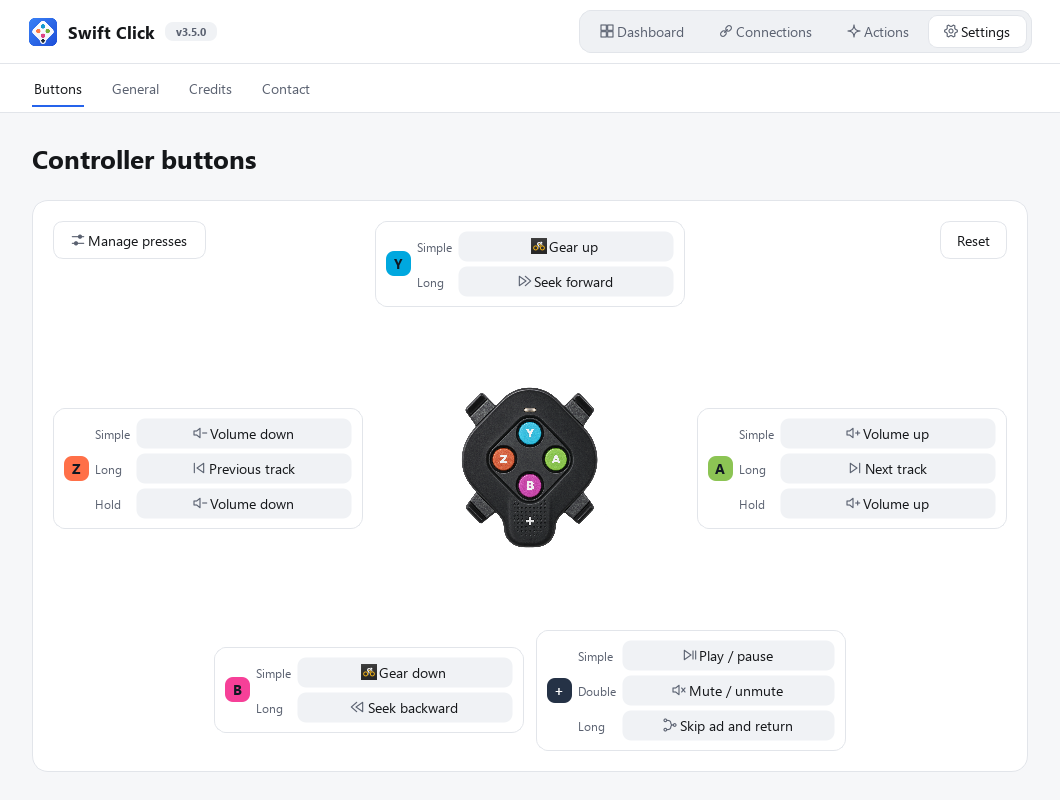
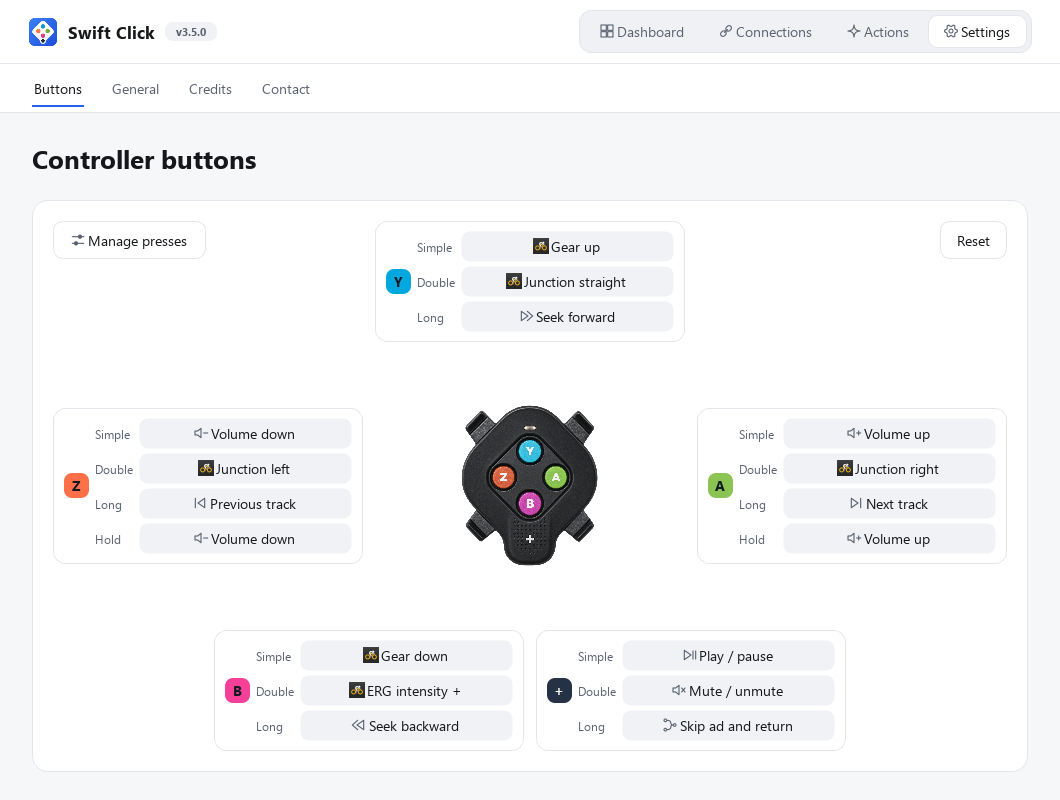
Show all MyWhoosh actions in the README

diff --git a/README.md b/README.md
@@ -44,6 +44,8 @@ To assign an action, click the gesture's slot on the diagram and pick a category
 | **Junction left / straight / right** | Chooses your road when MyWhoosh shows its direction tiles. |
 | **ERG intensity − / +** | Clicks the − or + button of MyWhoosh's *Intensity* bar during an ERG workout, 1 % to 10 % per press (set it under **Settings → General → Advanced controls**). |
 
+![All MyWhoosh actions: gear up and down, move left and right, junction turns and ERG intensity, with coloured badges for the buttons already using them](docs/images/mywhoosh-actions.png)
+
 **Junctions in detail.** MyWhoosh offers no keyboard shortcut or network command for choosing a direction: you normally have to click one of the two or three tiles it shows, and their position changes with their number. When you press a junction gesture, Swift Click looks at a small band of the MyWhoosh window, finds the tile whose arrow points the way you asked, clicks it and puts the pointer back. If that direction isn't offered, nothing is clicked. The image is analysed in memory on your PC and never saved or sent. *ERG intensity − / +* work the same way: Swift Click finds the *Intensity* bar wherever it sits in the MyWhoosh window and clicks its − or + button; if the bar isn't shown, nothing is clicked.
 
 **A link that holds for the whole ride.** Both sides exchange keep-alive messages; after sleep, a Wi-Fi drop or an IP change, Swift Click reconnects on its own. Commands that couldn't be delivered during a reconnection are dropped rather than replayed late, so you never get a surprise shift.
